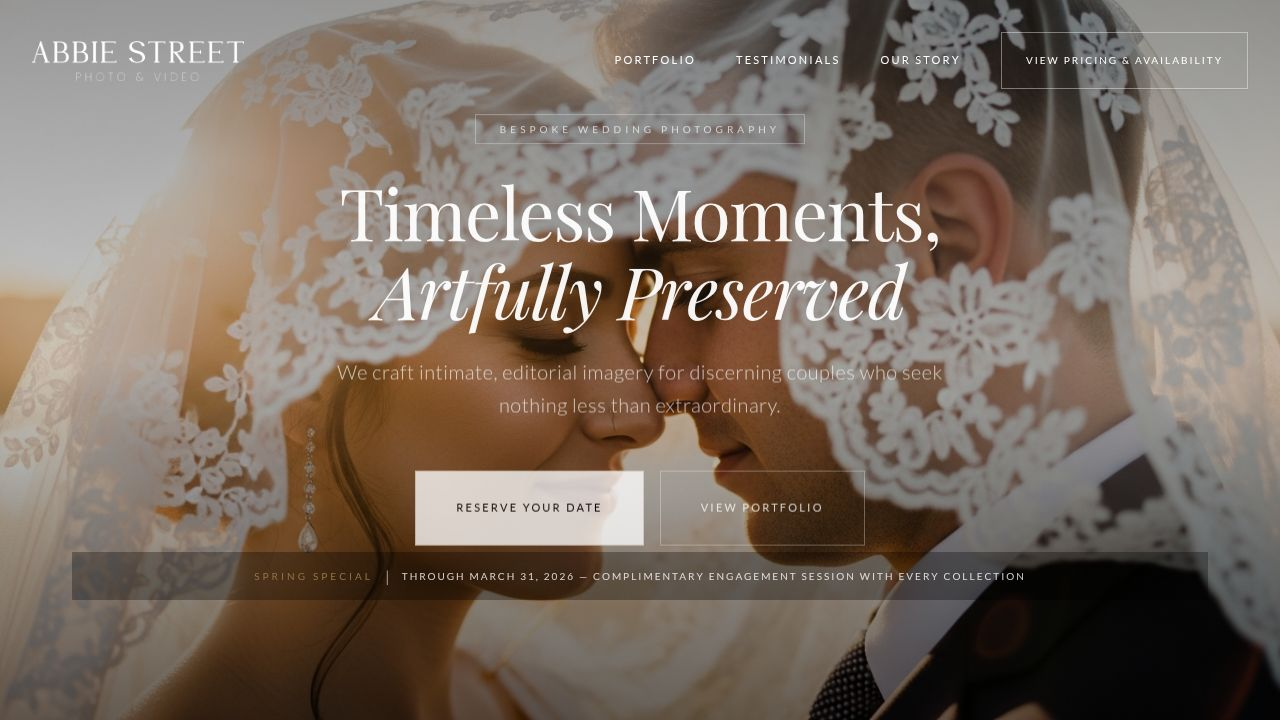
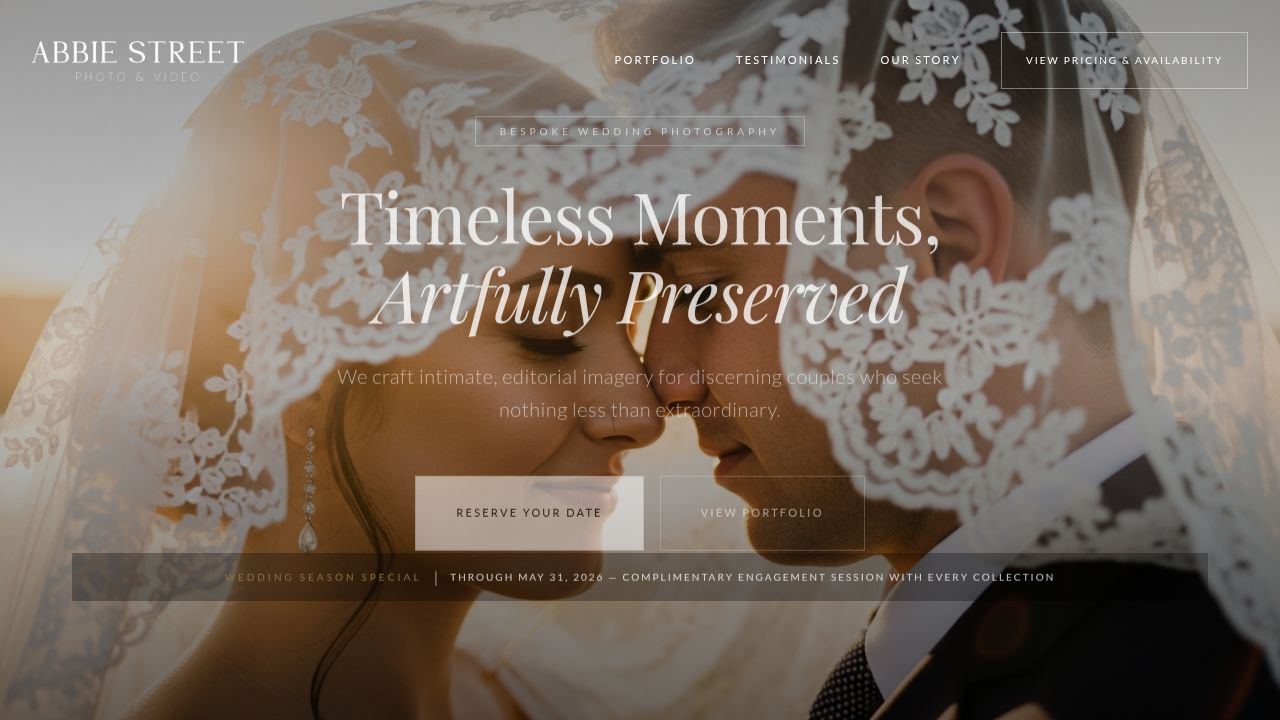
Allow all lead events to be sent to Facebook's API
Remove restrictive domain check from server-side Meta CAPI event sending logic.

Replit-Commit-Author: Agent
Replit-Commit-Session-Id: d274d92a-0c9c-4ba3-9dcb-addb1437a527
Replit-Commit-Checkpoint-Type: full_checkpoint
Replit-Commit-Event-Id: 99bcfa4d-e549-4b91-935d-be1532bd358e
Replit-Commit-Screenshot-Url: https://storage.googleapis.com/screenshot-production-us-central1/81b766c2-aa3e-4526-b908-3a2bc8138d35/d274d92a-0c9c-4ba3-9dcb-addb1437a527/FKysACg
Replit-Helium-Checkpoint-Created: true

diff --git a/server/services/meta-capi.ts b/server/services/meta-capi.ts
@@ -53,12 +53,6 @@ export function sendLeadEvent(data: LeadEventData): void {
     return;
   }
 
-  // Only send events from production domain
-  if (!data.eventSourceUrl?.includes("abbiestreetphoto.com")) {
-    console.log("Meta CAPI: Skipping event from non-production domain");
-    return;
-  }
-
   const pixelId = process.env.META_PIXEL_ID!;
   const accessToken = process.env.META_ACCESS_TOKEN!;
 